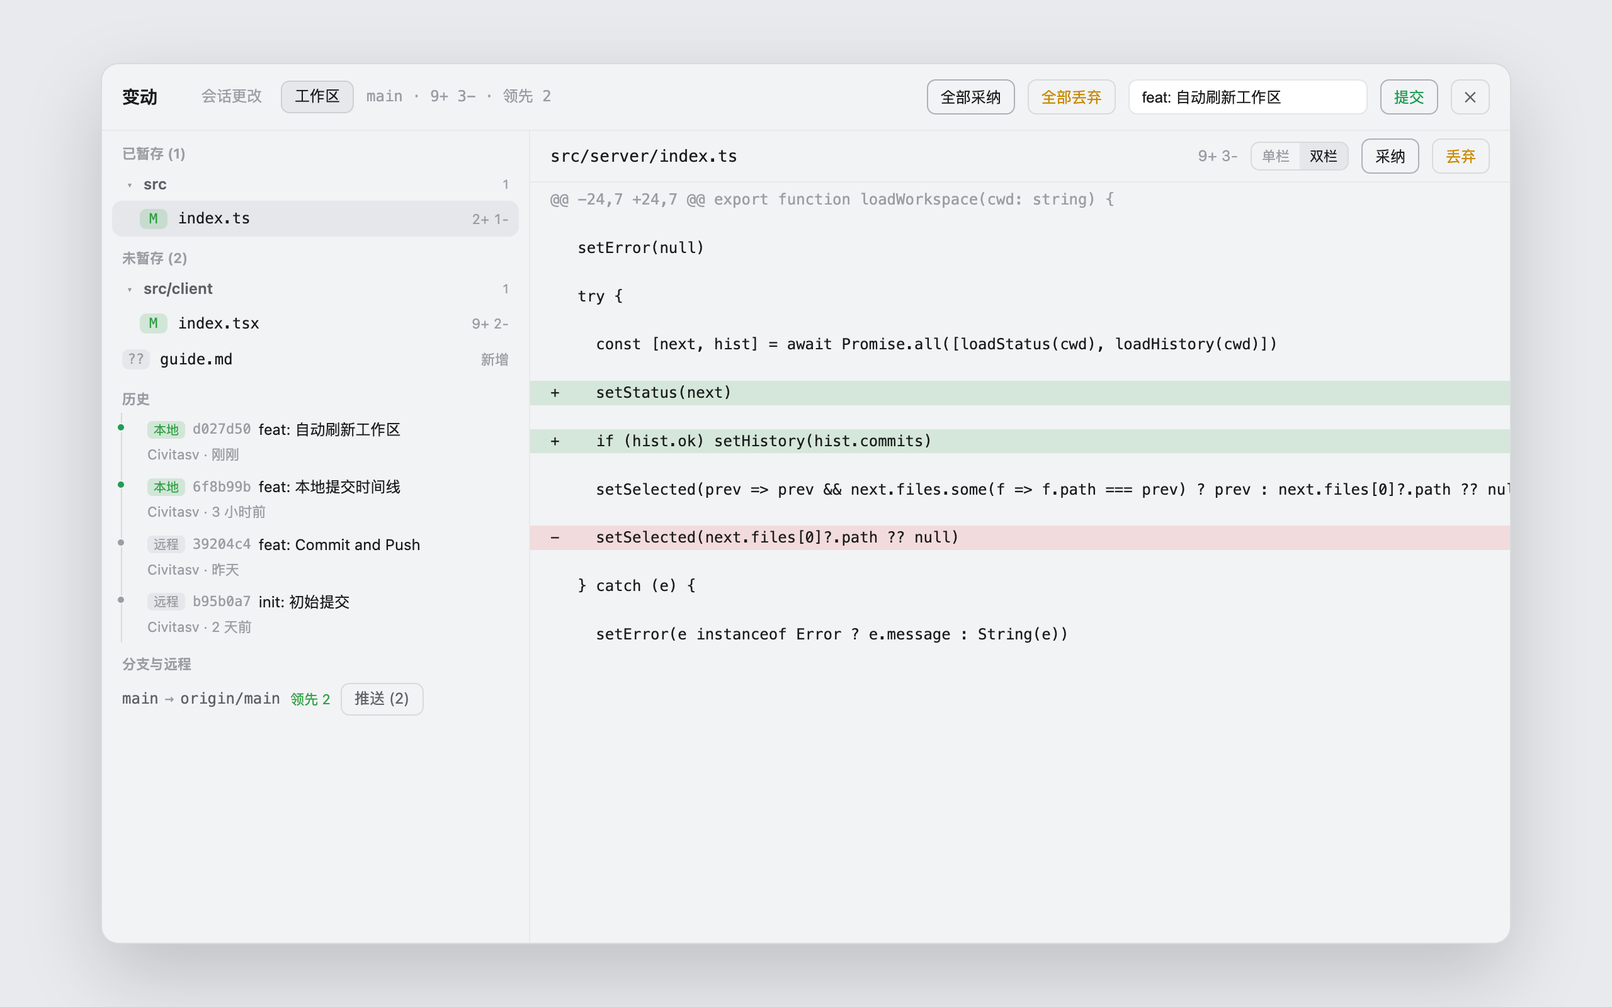
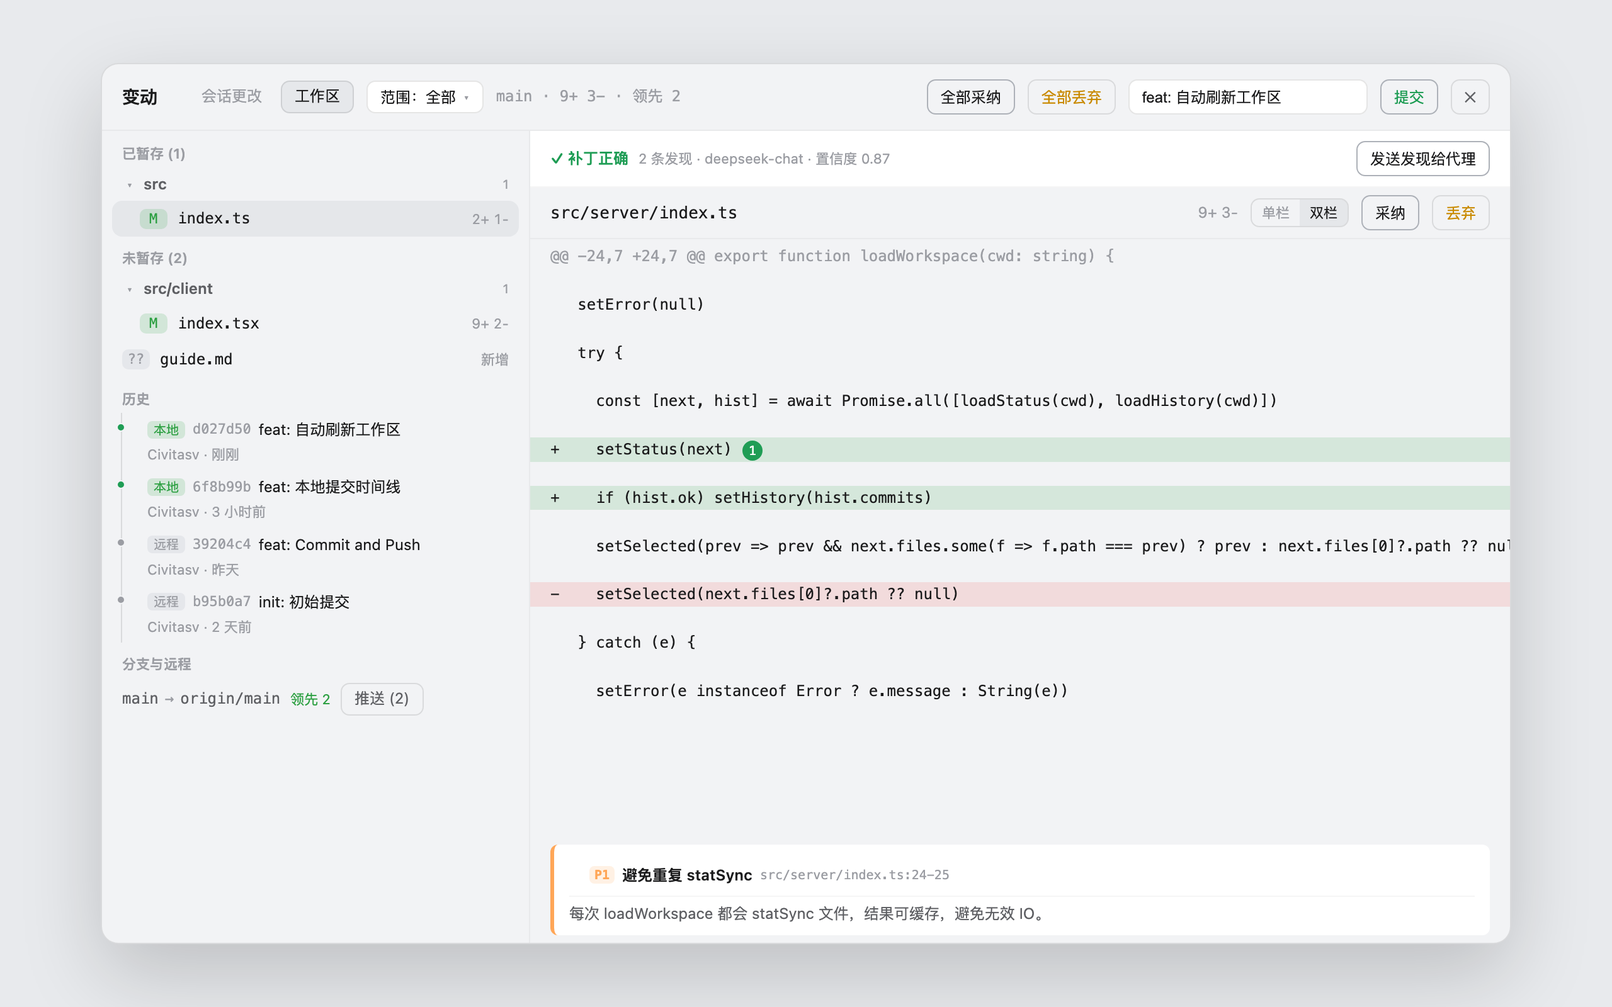
docs: refresh README — current-UI screenshots + concise layout
- regenerate the mock screenshots to reflect the current panel: scope
  dropdown, sticky AI-verdict banner with inline P1 finding card, and
  comment badges on diff lines (workspace + session views)
- trim README from ~236 to ~168 lines: features condensed to one-line
  bullets, install/config/how-it-works/FAQ tightened, no info dropped

diff --git a/README.md b/README.md
@@ -1,235 +1,167 @@
 # dsh-plugin-diff-review
 
-**变动（Changes）**插件：一个浮层面板里同时提供两个视角 ——
-**会话更改**（每一轮对话中代理修改了哪些文件，逐轮查看，不依赖 git）和
-**工作区**（git 工作区全部未提交更改，可采纳/丢弃/提交/推送，并带历史时间线）。
+**变动（Changes）**：Codex 式 diff 审查插件，一个浮层面板提供两个视角 ——
+**会话更改**（每轮对话代理改了什么，逐轮查看，不依赖 git）与
+**工作区**（git 未提交更改：采纳/丢弃/提交/推送/历史/分支），并带行内评论
+闭环（评论 → 发送给代理修复 → 复评审）与 AI 评审。
 
 ## 截图
 
-工作区视图 —— 已暂存 / 未暂存 / 历史时间线 / 分支与远程，左侧文件树、右侧 diff：
+工作区：已暂存 / 未暂存 / 历史 / 分支与远程，范围下拉、AI 评审结论横幅与
+行内发现卡片、评论角标：
 
-![工作区视图](docs/screenshots/workspace.png)
+![工作区](docs/screenshots/workspace.png)
 
-提交详情 —— 点历史时间线中的提交，查看该提交的变动文件树与逐文件 diff：
+提交详情：历史时间线点提交 → 该提交的变动文件树 + 逐文件 diff：
 
 ![提交详情](docs/screenshots/commit.png)
 
-会话更改 —— 按轮列出代理修改的文件（不依赖 git），右侧查看每处修改的 diff：
+会话更改：按轮列出代理修改（不依赖 git），右侧查看每处 diff：
 
 ![会话更改](docs/screenshots/session.png)
 
 ## 特性
 
-### 工作区（Workspace）— git 工作树
+### 工作区（git 工作树）
 
-- 左侧按 git 维度分区，每区一棵文件树：**已暂存**（staged）、**未暂存**（unstaged
-  含未跟踪）、**本地提交**（未推送的提交时间线，标注 本地/远程）、**分支与远程**
-  （`branch → upstream`、领先/落后、推送）；
-- **评审范围切换**（scope 下拉，对齐 Codex 评审面板）：全部 / 未暂存 / 已暂存 /
-  提交 / 分支 / 最后一轮 ——「分支」对比所选基线分支的 merge-base diff（只读），
-  「最后一轮」只看当前会话最近一轮代理改动的文件；
-- **AI 评审（/review）**：头部「评审」按钮 → 按当前范围收集 diff，用
-  `ctx.llm` 调模型（模型 = 插件配置 `reviewProvider/reviewModel`，缺省用会话
-  当前模型），产出 Codex 式结构化发现（P0–P3、文件行号、置信度、建议代码）与
-  总体结论；**结论直接内联显示在 diff 视图里**：顶部常驻结论横幅（✓/✗ +
-  发现数 + 模型名，滚动时吸顶），每条发现在对应行下方渲染为发现卡片（优先级
-  色条、标题、详情、置信度、建议代码）——单/双栏都支持、无需展开；「发送发现
-  给代理」把发现注入会话修复 → 修完再点「评审」复评审；
-- **PR(gh) 集成**：当前分支关联 GitHub PR 时，左侧显示 PR 标题与 reviewer 评论
-  （`gh pr view` + `gh api`），点评论跳到对应文件行，「发送 PR 评论给代理」聚合
-  处理；未安装 gh 或无 PR 时静默隐藏；
-- **多仓库**：工作区目录含多个 git 仓库（嵌套/monorepo）时，范围旁出现仓库选择器，
-  切换后所有操作针对所选仓库；
-- **编辑器联动**：diff 头部「在编辑器中打开」打开该文件，行 hover 的 ↗ 按钮打开
-  该行 —— 复用 `dsh-plugin-open-editor`（已扩展支持 file:line：VS Code 系
-  `--goto`、vim/nvim/emacs `+N`、Sublime `file:line`）；未装 open-editor 时按钮
-  报错提示；
-- **逐文件采纳 / 丢弃 / 取消暂存**：`git add` / `git restore`（未跟踪文件直接删除）/
-  `git restore --staged`，丢弃需二次点击确认；「全部采纳 / 全部取消暂存 / 全部丢弃」
-  一键操作；
-- **逐 hunk 操作**：每个 diff hunk 自带 暂存 / 丢弃（未暂存的 hunk）或
-  取消暂存 / 丢弃（已暂存的 hunk）按钮，可部分暂存新文件（未跟踪文件也能逐 hunk
-  暂存）；hunk 过期（已被其他操作改变）时提示刷新；
-- **行内评论**（单栏 + 双栏）：hover diff 行 → `+` → 写下评论（Ctrl/⌘+Enter
-  保存），有评论的行左侧高亮并显示数量角标，点击查看/删除；双栏视图左右两侧
-  都能加（上下文行两侧同锚，变更行按各自侧锚定）；评论存放在仓库的
-  `.git/diff-review-comments.json`（不进工作区、不进 git 历史）；
-- **行内评论 chip 条（Codex 式）**：行内评论以紧凑 **chip 条常驻**在**输入框上方**
-  （与输入卡同面料、视觉融合，不悬浮、不跳动——每条 chip 显示 `路径:行号` +
-  摘要，**点击 chip → 在评审面板中打开对应变更块**，超过 4 条折叠为 +N）；
-  **顶栏本身就是发送控制**——无需单独的发送按钮，**只有显式点击顶栏才会发送**：
-  完整的评审包（每条评论 + 对应 diff hunk + AI 评审结论 verdict 与发现，如有）
-  以 steering 注入——代理下一步即处理，不再出现「排队信息」条；发送普通消息
-  **不会**自动附带评论；
-  评审发现与 PR 评论仍通过面板内「发送」弹层聚合；
-- **会话里的评审卡片**：发送出去的评审包在对话中渲染为一张**可点击卡片**（类似
-  Codex 的评审摘要）——按文件分组列出每条评论（`路径:行号` + 正文）与 AI 评审
-  结论，**点击任意评论或文件 → 在评审面板中定位到对应变更块/文件**；发送过的
-  评论不会重复发送（持久化于每个工作区）；
-- **提交**：输入提交说明，提交已暂存的更改；**推送**：双击确认后推送当前分支；
-- 切换工作区或标签页时**自动刷新**（无需手动刷新按钮），打开期间每 15 秒静默刷新；
-- 每个文件展示完整 unified diff（单栏 / 双栏切换）。
+- 左侧按 **已暂存 / 未暂存 / 历史 / 分支与远程** 分区，右侧逐文件 unified diff
+  （单栏 / 双栏）；
+- **范围下拉**：全部 / 未暂存 / 已暂存 / 提交 / 分支 / 最后一轮（「分支」为
+  merge-base 只读对比，「最后一轮」取当前会话最近一轮改动的文件）；
+- **采纳 / 丢弃 / 取消暂存**：文件级与逐 hunk（未跟踪文件也能逐 hunk 暂存），
+  丢弃需二次点击确认；「全部…」一键批量；
+- **提交 / 推送**：输入说明提交已暂存更改；双击确认推送（显示领先/落后）；
+- **AI 评审**：按当前范围调模型产出 P0–P3 发现与总体结论，**结论固定内联**在
+  diff 视图（吸顶横幅 + 行内发现卡片，单/双栏均支持），「发送发现给代理」修复
+  后可复评审；
+- **PR(gh) 集成**：关联 GitHub PR 时显示 reviewer 评论，点击跳行、可聚合发送；
+- **多仓库**：嵌套 / monorepo 自动识别，切换后所有操作针对所选仓库；
+- **编辑器联动**：diff 头部/行号打开文件或定位到行（经 `dsh-plugin-open-editor`，
+  支持 VS Code `--goto`、vim/emacs `+N`、Sublime `file:line`）；
+- 切换工作区/标签页自动刷新，打开期间每 15 秒静默刷新。
 
-### 会话更改（Session）— 不依赖 git
+### 行内评论（评审闭环）
 
-- 从当前会话的记录中提取**每一轮（每次用户提问）代理修改的文件**，按轮分组，
-  显示该轮提问的内容摘要；
-- 每个修改展示**完整的按行 diff**；即使没有 diff 数据，仍会列出文件路径与工具名；
-- **完全客户端计算**，工作区是不是 git 仓库都能显示，历史轮次也能回看。
+- 单/双栏 diff 行 hover `+` 写评论（Ctrl/⌘+Enter 保存），有评论的行高亮显示角标；
+  评论存于 `.git/diff-review-comments.json`（不进工作区与 git 历史）；
+- 评论以 **chip 条常驻输入框上方**：每条 chip 显示 `路径:行号` + 摘要，点击
+  跳到对应变更块（自动路由到会话更改或工作区页签），超过 4 条折叠为 +N；
+- **点击顶栏显式发送**评审包（每条评论 + 对应 diff hunk + AI 评审结论）——
+  不随普通消息自动发送，发送过的评论永不重发（按工作区持久化）；
+- 发送后在会话里渲染为**可点击评审卡片**，点击任意评论直达对应代码。
+
+### 会话更改（不依赖 git）
+
+- 从会话记录提取**每一轮**代理修改的文件（含该轮提问摘要），每处展示完整
+  按行 diff；无 diff 数据时仍列出路径与工具名；纯客户端计算。
 
 ## 一键安装
 
 ```sh
 # macOS / Linux
 bash install.sh
-```
 
-```powershell
 # Windows（PowerShell）
 powershell -ExecutionPolicy Bypass -File install.ps1
 ```
 
-脚本会：安装运行依赖 → 把插件链接进 `~/.dsh/profiles/node_modules` →
-幂等注册到 `cordis.patch.yml` → 提示重启。
+脚本会：安装运行依赖 → 链接进 `~/.dsh/profiles/node_modules` → 注册到
+`cordis.patch.yml` → 提示重启。
 
 ### 手动安装
 
-本仓库已包含构建产物（`dist/index.js` 与 `client.js`），可直接使用；修改过源码才需要
-先执行 `npm install && npm run build`。
+仓库已包含构建产物（`dist/index.js` 与 `client.js`），修改源码后才需
+`npm install && npm run build`。
 
-1. **把插件放进 profile 的依赖目录**：
+```sh
+# 1. 链接进 profile 依赖目录（Windows 用 Junction 等效命令）
+ln -sfn "$PWD" ~/.dsh/profiles/node_modules/dsh-plugin-diff-review
 
-   ```sh
-   # macOS / Linux
-   ln -sfn "$PWD" ~/.dsh/profiles/node_modules/dsh-plugin-diff-review
+# 2. 注册到 ~/.dsh/profiles/web/cordis.patch.yml
+#    - insert:
+#        - id: diff-review
+#          name: dsh-plugin-diff-review
 
-   # Windows（PowerShell）
-   New-Item -ItemType Junction -Path "$HOME\.dsh\profiles\node_modules\dsh-plugin-diff-review" -Target "$PWD"
-   ```
-
-2. **注册到配置**：编辑 `~/.dsh/profiles/web/cordis.patch.yml`：
-
-   ```yaml
-   - insert:
-       - id: diff-review
-         name: dsh-plugin-diff-review
-   ```
-
-3. **重启 `dsh web`**，打开任意会话，页头会出现「变动」按钮（带修改数角标）。
+# 3. 重启 dsh web，会话页头出现「变动」按钮
+```
 
 ## 使用
 
 | 操作 | 效果 |
 | --- | --- |
-| 点击「变动」 | 打开审查面板，默认停在「工作区」页签 |
-| 工作区页签 | 左侧按 已暂存 / 未暂存 / 历史 / 分支 分区，右侧显示 diff |
-| **范围下拉** | 全部 / 未暂存 / 已暂存 / 提交 / 分支 / 最后一轮，切换展示的文件集 |
-| **仓库选择器** | 工作区含多个 git 仓库时出现，切换后所有操作针对所选仓库 |
-| **评审** | 按当前范围调模型产出 P0–P3 发现 + 总体结论；发现叠加在 diff 行，顶部条可发送给代理 |
-| 点击文件树中的文件 | 右侧显示该文件的 unified diff |
-| **单栏 / 双栏切换** | diff 头部可切换，选择会记住 |
-| **hunk 操作** | 每个 hunk 行有 暂存/丢弃 或 取消暂存/丢弃 按钮（只读范围不显示） |
-| **行内评论** | 单/双栏 hover 行 → `+` → 输入评论保存；有评论的行显示角标，点击查看/删除 |
-| **评论浮层** | 输入框上方以 chip 条常驻显示待发送评论（点击 chip 跳转对应变更，超过 4 条折叠 +N），仅显式点击顶栏发送 |
-| **在编辑器中打开** | diff 头部打开文件；行 hover 的 ↗ 打开该行（经 dsh-plugin-open-editor） |
-| 历史时间线 | 显示最近提交（本地/远程标注），点提交 → 该提交的变动文件树 + 逐文件 diff |
-| **PR 区** | 左侧显示当前分支的 PR 标题与 reviewer 评论，点评论跳转对应行；可聚合发送给代理 |
-| 单文件「采纳 / 取消暂存 / 丢弃」 | `git add` / `git restore --staged` / 恢复该文件到 HEAD（未跟踪文件删除），丢弃需二次点击确认 |
-| 「全部采纳 / 全部取消暂存 / 全部丢弃」 | 对全部更改批量操作，丢弃需二次确认 |
-| **提交** | 输入说明 → 提交已暂存的更改（无已暂存时按钮禁用） |
-| **推送** | 双击确认 → 推送当前分支到上游；「分支与远程」区显示领先/落后数 |
+| 「变动」按钮 | 打开面板（默认工作区页签） |
+| 范围下拉 | 全部 / 未暂存 / 已暂存 / 提交 / 分支 / 最后一轮 |
+| 仓库选择器 | 多仓库时出现，切换后操作针对所选仓库 |
+| 评审 | 按范围调模型，P0–P3 发现 + 结论内联在 diff，可发送给代理 |
+| hunk 操作 | 暂存 / 丢弃 / 取消暂存（只读范围不显示） |
+| 行内评论 | hover 行 `+` 写评论；chip 条点击跳转、顶栏点击发送 |
+| 在编辑器中打开 | diff 头部打开文件；行 hover ↗ 打开该行 |
+| 提交 / 推送 | 输入说明提交已暂存更改；双击确认推送 |
 
-### 设置：字体与字号
+字体与字号在 **设置 → 插件 → 插件配置 → 变动** 中调整（即时生效并持久化）。
 
-在 **设置 → 插件 → 插件配置 → 变动** 卡片中可修改 diff 的字体与字号
-（等宽 / 系统字体 / Consolas / JetBrains Mono / Fira Code / Source Code Pro；
-字号 11–18px），即时生效并持久化。
-
-> 「采纳」只是**暂存**，不会自动 commit —— 在提交框输入说明后点「提交」，
-> 再在「分支与远程」点「推送」。
+> 「采纳」只是暂存，不会自动 commit —— 在提交框输入说明后点「提交」。
 
 ## 配置
 
-编辑 `~/.dsh/profiles/web/cordis.patch.yml` 中该插件的 `config`：
+编辑 `cordis.patch.yml` 中该插件的 `config`：
 
 ```yaml
 - id: diff-review
   name: dsh-plugin-diff-review
   config:
-    statusPath: /diff-review/status          # 工作区状态路由（一般无需改动）
-    applyPath: /diff-review/apply            # 采纳/丢弃/取消暂存路由
-    applyHunkPath: /diff-review/apply-hunk   # 逐 hunk 操作路由
-    commitPath: /diff-review/commit          # 提交路由
-    pushPath: /diff-review/push              # 推送路由
-    historyPath: /diff-review/history        # 历史时间线路由
-    commitDiffPath: /diff-review/commit-diff # 提交 diff 路由
-    commentsPath: /diff-review/comments      # 行内评论读写路由
-    branchesPath: /diff-review/branches      # 本地分支列表路由
-    reviewPath: /diff-review/review          # AI 评审路由
-    prPath: /diff-review/pr                  # PR(gh) 上下文路由
-    reposPath: /diff-review/repos            # 多仓库检测路由
-    reviewProvider: ""                       # AI 评审用 provider（如 deepseek-official）
-    reviewModel: ""                          # AI 评审用模型；两者为空时用会话当前模型
-    allowedRoots: []                         # 非空时，仅允许审查这些目录下的仓库
+    statusPath: /diff-review/status          # 以下为各路由（一般无需改动）
+    applyPath: /diff-review/apply
+    applyHunkPath: /diff-review/apply-hunk
+    commitPath: /diff-review/commit
+    pushPath: /diff-review/push
+    historyPath: /diff-review/history
+    commitDiffPath: /diff-review/commit-diff
+    commentsPath: /diff-review/comments
+    branchesPath: /diff-review/branches
+    reviewPath: /diff-review/review
+    prPath: /diff-review/pr
+    reposPath: /diff-review/repos
+    reviewProvider: ""                       # AI 评审 provider（如 deepseek-official）
+    reviewModel: ""                          # AI 评审模型；两者为空时用会话当前模型
+    allowedRoots: []                         # 非空时仅允许审查这些目录下的仓库
 ```
 
-- `allowedRoots`：安全开关，只约束「工作区」页签的 git 操作；「会话更改」页签
-  纯客户端展示，不经过服务器。
+`allowedRoots` 只约束「工作区」页签的 git 操作；「会话更改」纯客户端，不经过服务器。
 
 ## 工作原理
 
-**会话更改**（纯客户端）：从会话快照读取全部对话节点，按用户消息划分"轮"；
-每个已完成的工具调用若携带 diff hunks（`resultView` 或 `meta.diffs`），解析为
-`{path, oldText, newText}` 并归入对应轮次；没有 diff 数据但能确定是文件修改时，
-仍列出路径与工具名；diff 按行渲染（新增绿 / 删除红 / 上下文）。
+**会话更改**（纯客户端）：读取会话快照，按用户消息划分"轮"；已完成的工具调用
+若携带 diff hunks（`resultView` / `meta.diffs`）解析为 `{path, oldText, newText}`
+归入对应轮次，无 diff 时仍列路径与工具名。
 
 **工作区**（服务器端）：`git status --porcelain=v1 -z` + `git ls-files --others`
-收集变更，`git diff` / `git diff --cached` 取 diff；采纳 = `git add`，丢弃 =
-`git restore`，取消暂存 = `git restore --staged`；逐 hunk 操作：index 侧（暂存/
-取消暂存）用 `git apply --cached`（hunk 的上下文与 index 完全一致，可靠），
-工作区侧（丢弃）用 hunk 文本做行级替换写回文件（`git apply --reverse` 对
-hunk 不落在文件末尾的补丁不可靠，故不用）；提交 = `git commit -m`，推送 =
-`git push`；历史 = `git log HEAD`（`git rev-list @{u}..HEAD` 标注未推送）；
-提交 diff = `git show --format=` + `--numstat`；分支范围 = `git diff $(git
-merge-base HEAD <base>)`（只读）；行内评论存于 `git rev-parse --git-dir`
-下的 `diff-review-comments.json`；AI 评审 = 按范围收集 diff → 解析模型
-（配置 `reviewProvider/reviewModel` 优先，否则取会话最近请求头
-`requestHeader().config`）→ `ctx.llm.stream` 严格 JSON 提示词 → 校验发现
-（路径必须在评审文件集内，行号钳制）；PR = `gh pr view` + `gh api
-pulls/{n}/comments`（无 gh 静默降级）；多仓库 = `git rev-parse
---is-inside-work-tree`/`--show-toplevel` 扫描工作区及其一层子目录。所有 git
-命令通过 `execFile` 执行（无 shell），路径参数带 `--` 并拒绝 `..` 穿越与绝对
-路径，提交说明拒绝以 `-` 开头，hash 与 hunk 文本严格校验。
+收集变更；采纳 = `git add`，丢弃 = `git restore`，取消暂存 = `git restore
+--staged`；逐 hunk：index 侧用 `git apply --cached`，工作区侧用 hunk 文本行级
+替换写回（`git apply --reverse` 对 hunk 不落文件末尾的补丁不可靠）；提交 =
+`git commit -m`，推送 = `git push`；行内评论存于 git-dir 下
+`diff-review-comments.json`；AI 评审 = 按范围收集 diff → 解析模型（配置优先，
+否则会话 `requestHeader().config`）→ `ctx.llm.stream` 严格 JSON 提示词 → 校验
+发现（路径在评审文件集内、行号钳制）；PR = `gh pr view` + `gh api`（无 gh
+静默降级）；多仓库 = `git rev-parse` 扫描工作区及一层子目录。所有 git 命令经
+`execFile`（无 shell），路径带 `--` 且拒绝 `..` 穿越与绝对路径。
 
 ## 卸载
 
-1. 从 `cordis.patch.yml` 删除 `diff-review` 条目；
-2. 删除 `~/.dsh/profiles/node_modules/dsh-plugin-diff-review` 链接；
-3. 重启 `dsh web`。
+从 `cordis.patch.yml` 删除条目 → 删除 `~/.dsh/profiles/node_modules/dsh-plugin-diff-review`
+链接 → 重启 `dsh web`。
 
 ## 常见问题
 
-- **工作区页签提示「不是 git 仓库」**：该工作区没有 `.git`。不影响「会话更改」页签。
-- **某个修改显示「没有 diff 数据」**：该工具调用没有附带 diff hunks。文件路径与
-  工具名仍会列出。
-- **「提交」按钮不可用**：说明当前没有已暂存的更改 —— 先「采纳」文件或「全部采纳」。
-- **「推送」按钮不可用**：说明当前分支没有领先提交，或未配置上游分支（`git push -u` 一次）。
-- **hover 时行高跳动？** 已修复：评论/打开按钮改为占位可见（visibility），不再影响布局。
-- **「最后一轮」是空的**：终端命令（bash）改文件不会计入会话记录；用编辑工具改文件
-  才会被记录。可在会话更改页签确认记录来源。
-- **「发送给代理」没反应**：需要当前会话可用；如果注入失败，按钮会退化为复制文本
-  （剪切板），把评论粘贴到对话即可。
-- **「评审」提示没有可用模型**：在插件配置里设置 `reviewProvider` + `reviewModel`，
-  或先让当前会话发过一条消息（评审会复用会话的模型）。
-- **「在编辑器中打开」提示失败**：需要已安装 `dsh-plugin-open-editor` 且编辑器
-  可执行文件在 PATH 中（见该插件 README 的 `customEditors`）。
-- **左侧没有 PR 区**：当前分支没有关联 GitHub PR，或本机未安装/未登录 `gh`。
-- **hunk 操作提示「刷新」**：该 hunk 已被其它操作改变（上下文不匹配），重新加载
-  面板即可继续。
-- **按钮没有出现**：确认已重启 `dsh web`，并检查 设置 → 插件清单 里
-  `diff-review` 已加载。
-- **未跟踪文件被「全部丢弃」删除了，能找回吗？** 不能 —— 未跟踪文件不在 git
-  历史里。这也是丢弃需要二次确认的原因。
+- **「最后一轮」是空的**：终端命令（bash）改文件不计入会话记录；用编辑工具改
+  文件才会被记录，此时「会话更改」可确认记录来源。
+- **「提交」/「推送」不可用**：没有已暂存的更改 / 分支没有领先提交或未配置
+  上游（先 `git push -u` 一次）。
+- **「发送给代理」没反应**：需要当前会话可用；失败时退化为复制文本，粘贴发送即可。
+- **「评审」提示没有可用模型**：配置 `reviewProvider` + `reviewModel`，或先让
+  会话发过一条消息（复用会话模型）。
+- **「在编辑器中打开」失败**：需安装 `dsh-plugin-open-editor` 且编辑器在 PATH。
+- **左侧没有 PR 区**：当前分支无关联 PR，或未安装/登录 `gh`。
 
 ## License
 
